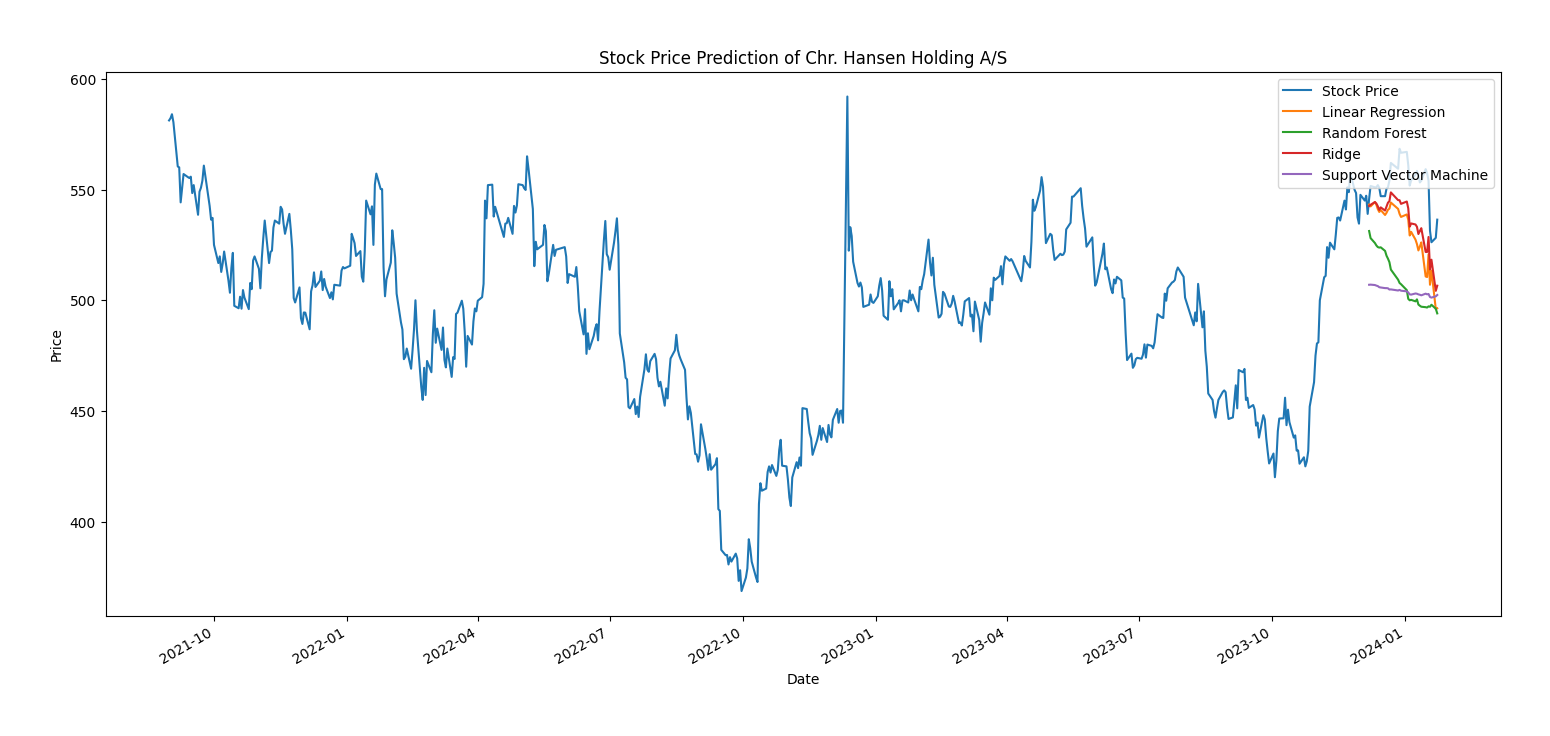
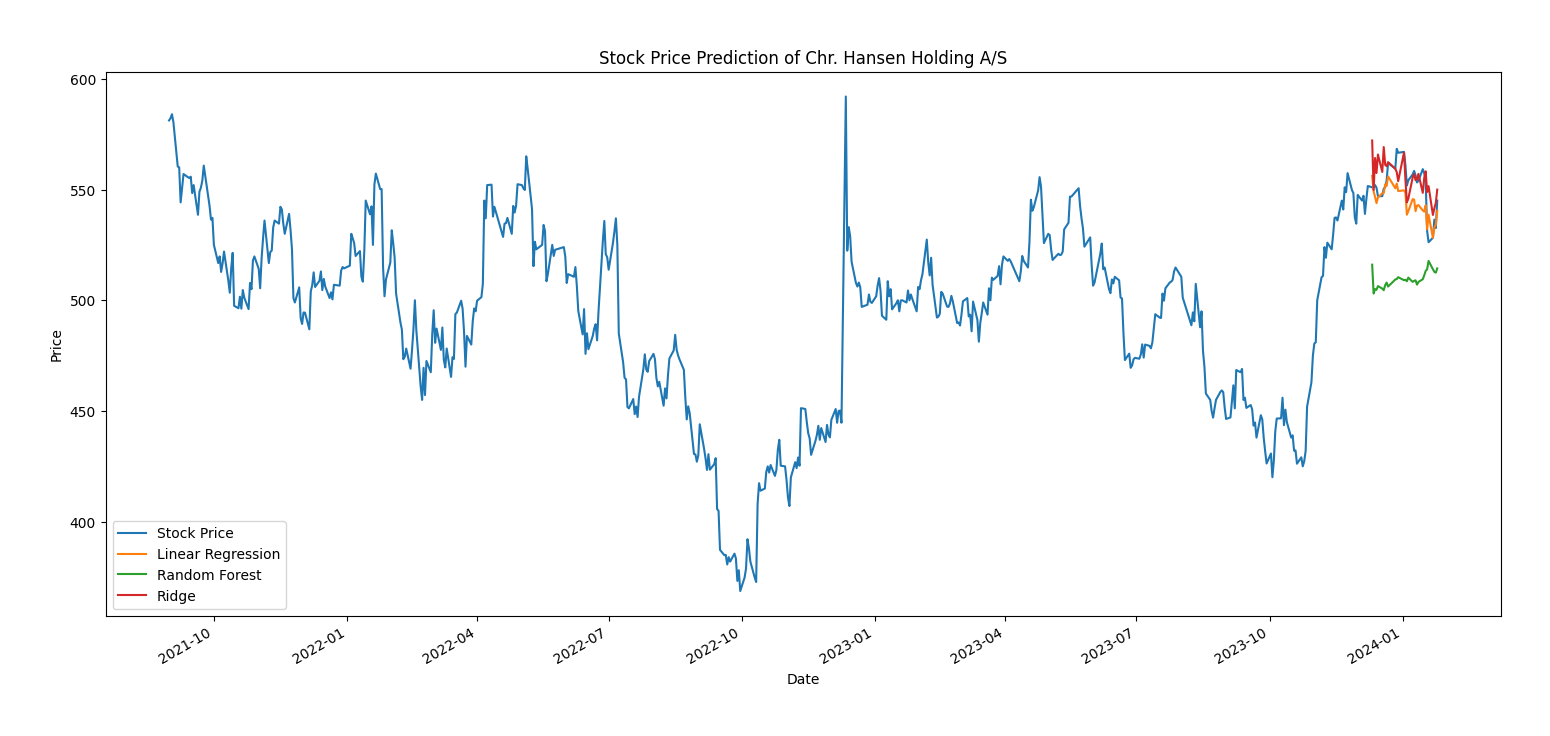
Implementing PCA model to multi stock analyzer + tested

diff --git a/stock_analyzer.py b/stock_analyzer.py
@@ -1,8 +1,11 @@
-import stock_data_fetch
-import ml_builder
-
 import pandas as pd
+import time
 
+import stock_data_fetch
+import import_csv_file
+import split_dataset
+import pca_dataset_analysis
+import ml_builder
 
 # Import stock symbols from a CSV file
 def import_stock_symbols(csv_file):
@@ -38,15 +41,16 @@ def import_stock_symbols(csv_file):
 
 
 if __name__ == "__main__":
+    start_time = time.time()
     # Import stock symbols from a CSV file
     stock_symbols_df = import_stock_symbols('index_symbol_list_multiple_stocks.csv')
     stock_symbols_list = stock_symbols_df['Symbol'].tolist()
     print(stock_symbols_df)
-    # stock_symbols_df['Symbol'].tolist()
+
+    # Fetch stock data for the imported stock symbols
     for index, row in stock_symbols_df.iterrows():
         stock = row["Symbol"]
         print(stock)
-        # Fetch stock data for the imported stock symbols
         stock_data_df = stock_data_fetch.fetch_stock_price_data(stock)
         # print(stock_data_df)
         # Fetch stock data for the imported stock symbols
@@ -74,9 +78,24 @@ if __name__ == "__main__":
 
         # Export the stock data to a CSV file
         stock_data_fetch.convert_excel_to_csv(dataframe, "stock_data_single_v2")
-        # Import the stock data from a CSV file
-        stock_data_df = ml_builder.import_stock_data('stock_data_single_v2.csv')
+        stock_data_df = import_csv_file.import_as_df('stock_data_single_v2.csv')
+        # Split the dataset into traning, test data and prediction data
+        x_training_data, x_test_data, y_training_data, y_test_data, prediction_data = split_dataset.dataset_train_test_split(stock_data_df, 0.20, 1)
+        # Reduce the dataset dimensions with PCA
+        x_training_dataset, x_test_dataset, x_prediction_dataset = pca_dataset_analysis.pca_dataset_transformation(x_training_data, x_test_data, prediction_data, 10)
+        # Combine the reduced dataset with the stock price
+        x_training_dataset_df = pd.DataFrame(x_training_dataset)
+        y_training_data_df = pd.DataFrame(y_training_data, columns=["Price"])
+        traning_dataset_df = x_training_dataset_df.join(y_training_data_df)
+        x_test_dataset_df = pd.DataFrame(x_test_dataset)
+        y_test_data_df = pd.DataFrame(y_test_data, columns=["Price"])
+        test_dataset_df = x_test_dataset_df.join(y_test_data_df)
+        x_prediction_dataset_df = pd.DataFrame(x_prediction_dataset)
         # Predict the stock price
-        forecast_df = ml_builder.predict_price(stock_data_df)
+        forecast_df = ml_builder.predict_price(traning_dataset_df, test_dataset_df, x_prediction_dataset_df, stock_data_df)
         # Plot the graph
         ml_builder.plot_graph(stock_data_df, forecast_df)
+        # Calculate the execution time
+        end_time = time.time()
+        execution_time = end_time - start_time
+        print(f"Execution time: {execution_time} seconds to build dataset and ML models.")

diff --git a/ml_builder.py b/ml_builder.py
@@ -73,7 +73,7 @@ def predict_price(traning_dataset, test_dataset, prediction_dataset, stock_df):
                     "Price_rf":forecast_set_rf, "Price_rg":forecast_set_rg,
     }
     forecast_df = pd.DataFrame(forecast_dict)
-    print(forecast_df)
+    # print(forecast_df)
     predicted_return = ((forecast_df.iloc[-1]["Price_rg"] / forecast_df.iloc[0]["Price_rg"]) - 1) * 100
     if predicted_return > 0:
         print(f"The prediction expects a profitable return on: {predicted_return}%, over the next {len(forecast_df)} days.")
@@ -125,15 +125,16 @@ def plot_graph(stock_data_df, forecast_data_df):
     my_path = os.path.abspath(__file__)
     path = os.path.dirname(my_path)
     # Save the graph
-    # try:
-    #     plt.savefig(os.path.join(path, "generated_graphs", graph_name), bbox_inches="tight", pad_inches=0.5, transparent=False, format="png")
+    try:
+        plt.savefig(os.path.join(path, "generated_graphs", graph_name), bbox_inches="tight", pad_inches=0.5, transparent=False, format="png")
+        plt.close()
 
 
     # Show the graph
-    plt.show()
+    # plt.show()
 
-    # except FileNotFoundError:
-    #     raise FileNotFoundError("The graph could not be saved. Please check the file name or path.")
+    except FileNotFoundError:
+        raise FileNotFoundError("The graph could not be saved. Please check the file name or path.")
 
 
 if __name__ == "__main__":

diff --git a/data_scalers.py b/data_scalers.py
@@ -1,5 +1,4 @@
 from sklearn.preprocessing import StandardScaler, MinMaxScaler
-import pandas as pd
 
 def data_preprocessing_minmax_scaler(data):
     # Scale data before applying PCA
